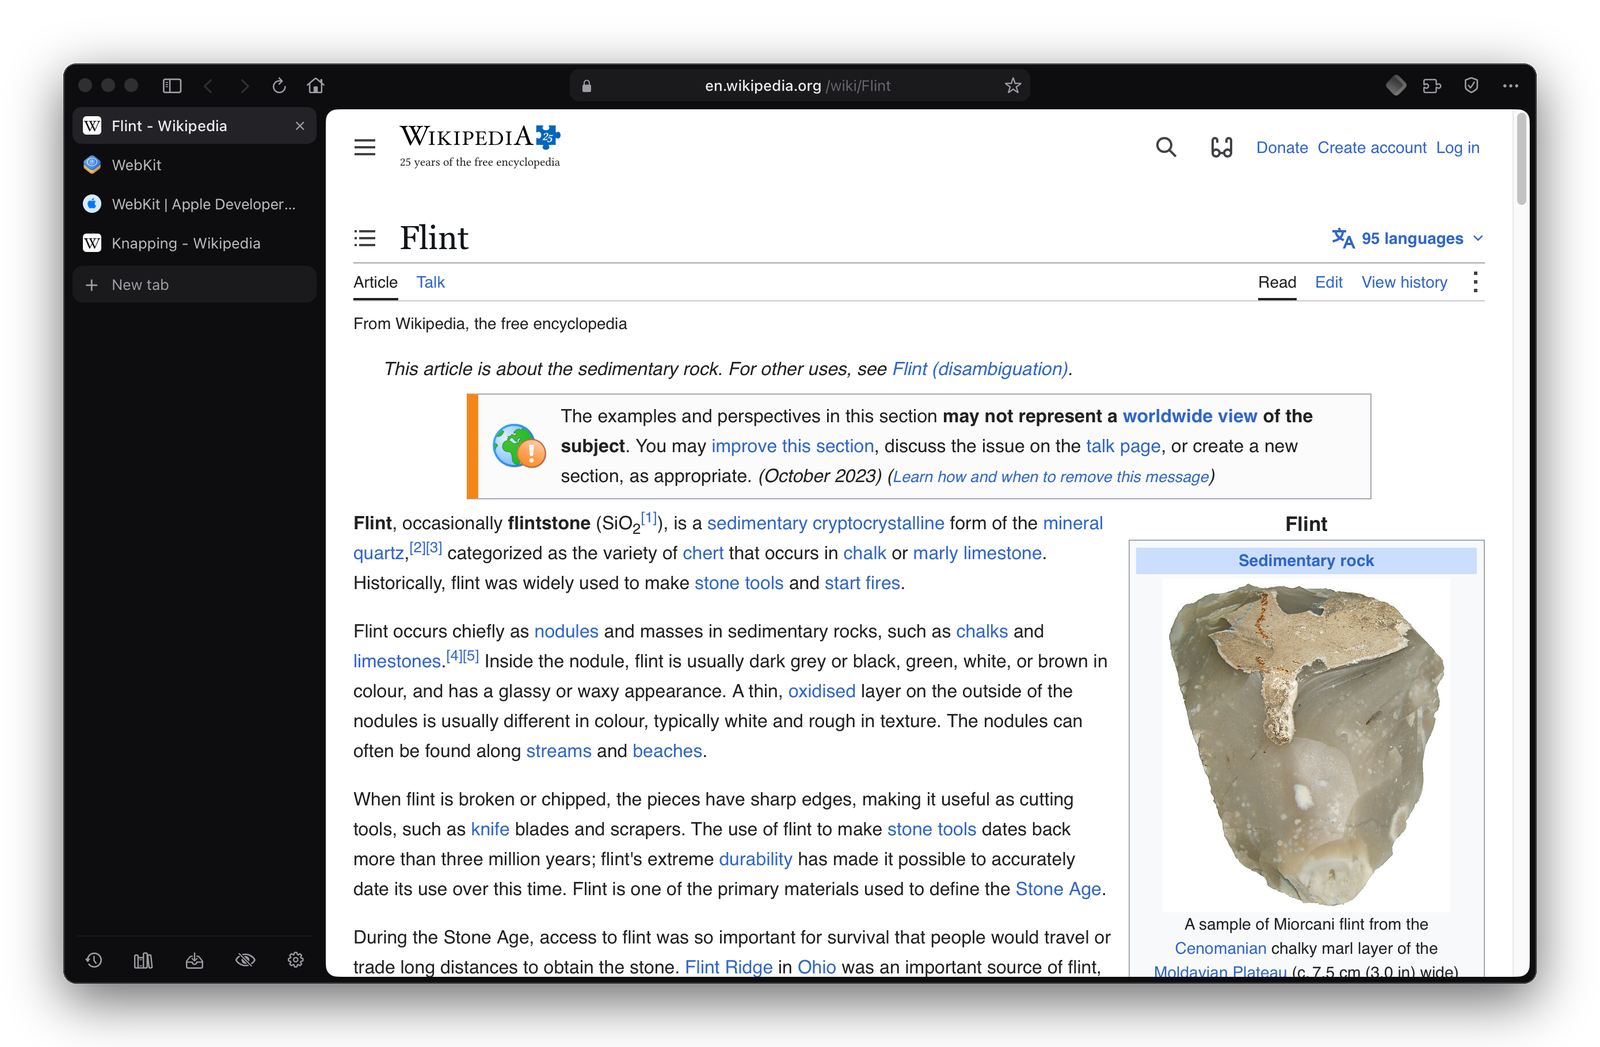
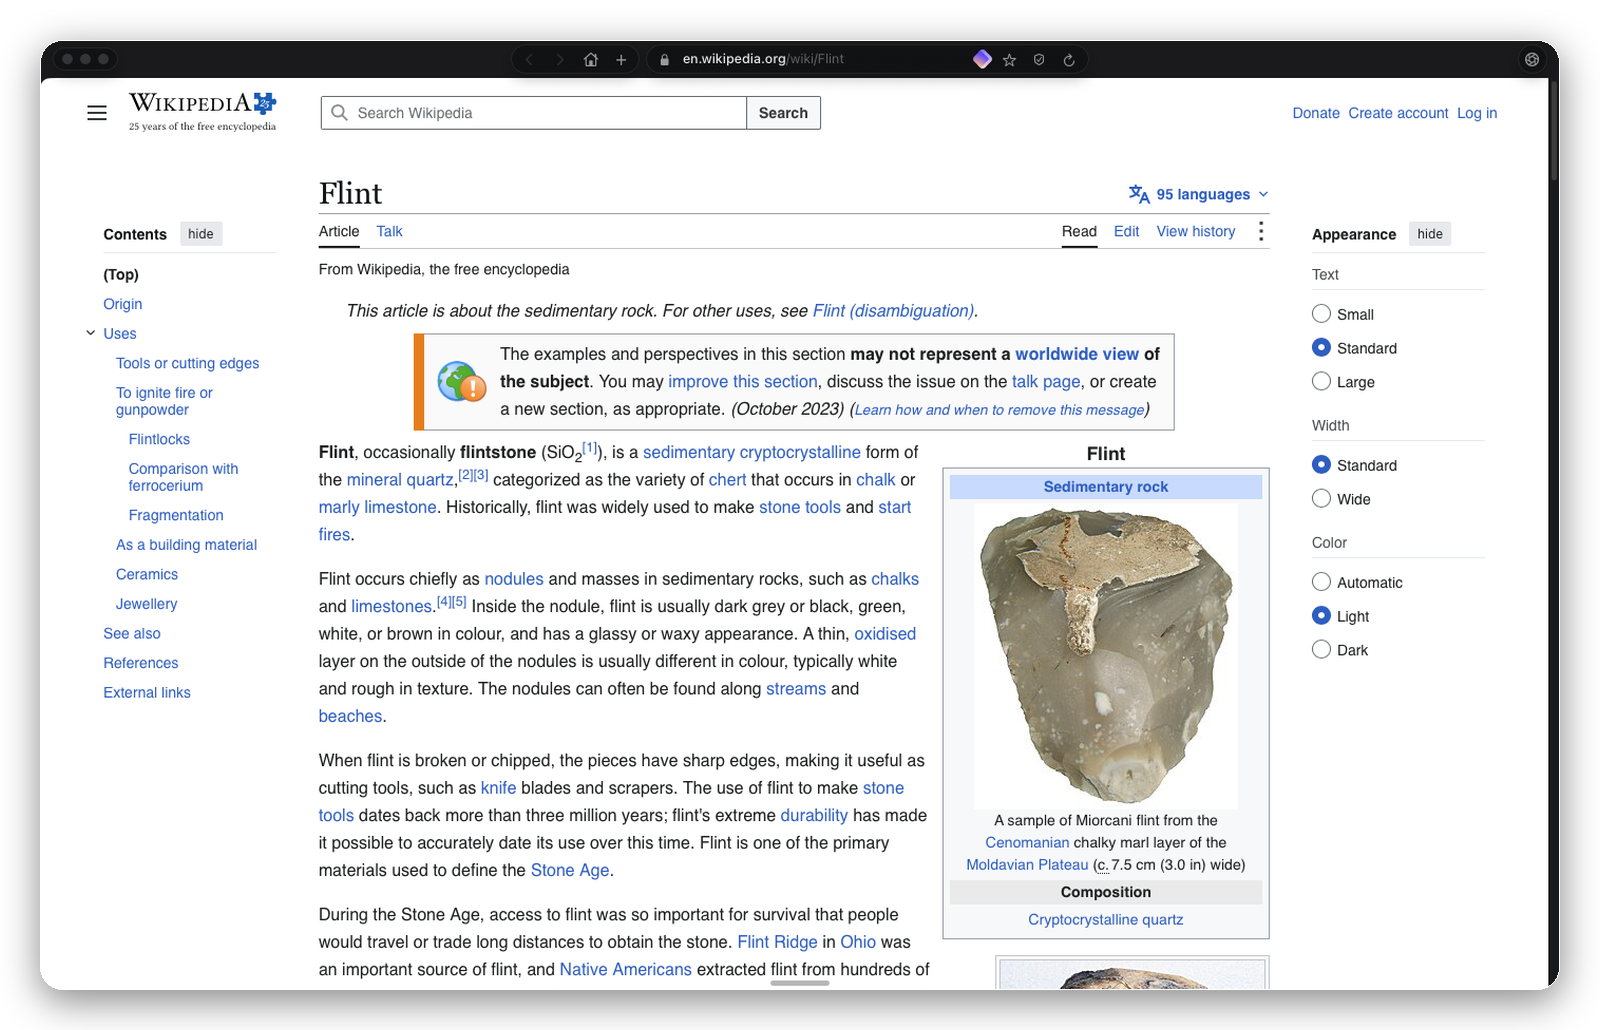
Monolith redesign: capsules, bottom tab strip, Lens; location support

diff --git a/Flint.m b/Flint.m
@@ -4863,6 +4863,35 @@ static NSString *MediaKey(NSURL *u) {
     }];
 }
 
+// Location: a site asks, you answer once for that site (change it later from the lock, or Settings ▸ Site Settings).
+// WebKit gets the position from macOS Location Services, which asks you the first time Flint uses it.
+- (void)askPermission:(NSString *)key host:(NSString *)host noun:(NSString *)noun done:(void (^)(BOOL))done {
+    host = host.lowercaseString ?: @"";
+    NSInteger v = [[Defaults() dictionaryForKey:kSitePerms][host][key] integerValue];
+    if (v == 1) { done(YES); return; }
+    if (v == 2 || !self.window) { done(NO); return; }
+    NSAlert *a = [NSAlert new];
+    a.messageText = [NSString stringWithFormat:@"%@ wants to use your %@", host, noun];
+    a.informativeText = @"You can change this later from the lock beside the address.";
+    [a addButtonWithTitle:@"Allow"]; [a addButtonWithTitle:@"Don't Allow"];
+    a.showsSuppressionButton = YES; a.suppressionButton.title = @"Remember for this site"; a.suppressionButton.state = NSControlStateValueOn;
+    [a beginSheetModalForWindow:self.window completionHandler:^(NSModalResponse r) {
+        BOOL allow = r == NSAlertFirstButtonReturn;
+        if (a.suppressionButton.state == NSControlStateValueOn) {
+            NSMutableDictionary *all = [[Defaults() dictionaryForKey:kSitePerms] ?: @{} mutableCopy];
+            NSMutableDictionary *mine = [all[host] ?: @{} mutableCopy];
+            mine[key] = @(allow ? 1 : 2); all[host] = mine; [Defaults() setObject:all forKey:kSitePerms];
+        }
+        done(allow);
+    }];
+}
+- (void)_webView:(WKWebView *)w requestGeolocationPermissionForOrigin:(WKSecurityOrigin *)o initiatedByFrame:(WKFrameInfo *)f decisionHandler:(void (^)(WKPermissionDecision))done API_AVAILABLE(macos(12.0)) {
+    [self askPermission:@"location" host:o.host noun:@"location" done:^(BOOL ok) { done(ok ? WKPermissionDecisionGrant : WKPermissionDecisionDeny); }];
+}
+- (void)_webView:(WKWebView *)w requestGeolocationPermissionForFrame:(WKFrameInfo *)f decisionHandler:(void (^)(BOOL))done {
+    [self askPermission:@"location" host:f.securityOrigin.host noun:@"location" done:done];
+}
+
 #pragma mark Downloads
 
 - (void)download:(WKDownload *)d decideDestinationUsingResponse:(NSURLResponse *)r suggestedFilename:(NSString *)name completionHandler:(void (^)(NSURL *))done {
@@ -7913,11 +7942,13 @@ static CGFloat ChipWidth(NSString *t, NSString *meta) {
             [self add:VPLabel rect:NSMakeRect(x, y, cw, 14) title:@"PERMISSIONS"]; y += 20;
             NSDictionary *perms = [Defaults() dictionaryForKey:kSitePerms][host];
             CGFloat cx = x;
-            for (NSString *k in @[@"camera", @"microphone"]) {
+            for (NSString *k in @[@"location", @"camera", @"microphone"]) {
                 NSInteger v = [perms[k] integerValue];
                 NSString *state = v == 1 ? @"Allow" : v == 2 ? @"Block" : @"Ask";
-                NSString *t1 = [k isEqualToString:@"camera"] ? @"Camera" : @"Microphone";
-                VPItem *c = [self add:VPChip rect:NSMakeRect(cx, y, ChipWidth(t1, state), 30) title:t1]; c.meta = state;
+                NSString *t1 = k.capitalizedString;
+                CGFloat chipW = ChipWidth(t1, state);
+                if (cx + chipW > x + cw) { cx = x; y += 36; }   // wrap onto a second row
+                VPItem *c = [self add:VPChip rect:NSMakeRect(cx, y, chipW, 30) title:t1]; c.meta = state;
                 c.act = ^(NSEvent *e, NSRect r) { [ww setSitePermission:Carry(@[host, k, @((v + 1) % 3)])]; [ws rebuild]; };
                 cx += NSWidth(c.r) + 6;
             }
@@ -9339,7 +9370,7 @@ static BOOL RemoveNode(NSMutableArray *list, id n) {
     NSMenuItem *js = [m addItemWithTitle:@"JavaScript on This Site" action:@selector(toggleSiteScripts:) keyEquivalent:@""]; js.target = self; js.representedObject = host;
     js.state = [Defaults() boolForKey:kScripts] && ![[Defaults() arrayForKey:kJSOff] containsObject:host] ? NSControlStateValueOn : NSControlStateValueOff;
     NSDictionary *perms = [Defaults() dictionaryForKey:kSitePerms][host];
-    for (NSString *k in @[@"camera", @"microphone"]) {
+    for (NSString *k in @[@"location", @"camera", @"microphone"]) {
         NSInteger v = [perms[k] integerValue];
         NSMenuItem *pi = [m addItemWithTitle:[NSString stringWithFormat:@"%@: %@", k.capitalizedString, v == 1 ? @"Allowed" : v == 2 ? @"Blocked" : @"Ask"] action:nil keyEquivalent:@""];
         NSMenu *sub = [[NSMenu alloc] initWithTitle:k];
@@ -11091,10 +11122,10 @@ static NSArray *SettingsSchema(VWindow *win) {
         NSMutableArray *l = [[Defaults() arrayForKey:kJSOff] ?: @[] mutableCopy]; [l removeObject:h]; [Defaults() setObject:l forKey:kJSOff]; done(nil); })];
     NSMutableArray *cam = [NSMutableArray array];
     NSDictionary *perms = [Defaults() dictionaryForKey:kSitePerms] ?: @{};
-    if (!perms.count) [cam addObject:SNote(@"No decisions yet", @"Sites ask the first time they want your camera or microphone.")];
+    if (!perms.count) [cam addObject:SNote(@"No decisions yet", @"Sites ask the first time they want your location, camera or microphone.")];
     for (NSString *h in [perms.allKeys sortedArrayUsingSelector:@selector(compare:)]) {
         NSMutableArray *bits = [NSMutableArray array];
-        for (NSString *k in @[@"camera", @"microphone"]) { NSInteger v = [perms[h][k] integerValue]; if (v) [bits addObject:[NSString stringWithFormat:@"%@ %@", k.capitalizedString, v == 1 ? @"allowed" : @"blocked"]]; }
+        for (NSString *k in @[@"location", @"camera", @"microphone"]) { NSInteger v = [perms[h][k] integerValue]; if (v) [bits addObject:[NSString stringWithFormat:@"%@ %@", k.capitalizedString, v == 1 ? @"allowed" : @"blocked"]]; }
         [cam addObject:SButton([@"perm." stringByAppendingString:h], h, [bits componentsJoinedByString:@" · "], @"Reset", ^(NSDictionary *a, void (^done)(NSString *)) {
             NSMutableDictionary *d = [[Defaults() dictionaryForKey:kSitePerms] ?: @{} mutableCopy]; [d removeObjectForKey:h]; [Defaults() setObject:d forKey:kSitePerms]; done(nil); })];
     }
@@ -11104,7 +11135,7 @@ static NSArray *SettingsSchema(VWindow *win) {
     for (NSString *h in allow) [allowRows addObject:SButton([@"allow." stringByAppendingString:h], h, @"Blocking turned off", @"Turn Back On", ^(NSDictionary *a, void (^done)(NSString *)) {
         NSMutableArray *l = [[Defaults() arrayForKey:kAllowlist] ?: @[] mutableCopy]; [l removeObject:h]; [Defaults() setObject:l forKey:kAllowlist]; FlintReloadBlocklists(); done(nil); })];
     [S addObject:SSection(@"sites", @"Site Settings", @"Choices you've made for individual sites. Change them from the lock icon in the address bar.", @"sliders", @[
-        SGroup(@"JavaScript", js), SGroup(@"Camera and microphone", cam), SGroup(@"Ad blocking", allowRows) ])];
+        SGroup(@"JavaScript", js), SGroup(@"Location, camera and microphone", cam), SGroup(@"Ad blocking", allowRows) ])];
 
     // ── Ad blocking
     NSMutableArray *lists = [NSMutableArray array]; NSSet *on = ListsOn();

diff --git a/README.md b/README.md
@@ -17,15 +17,24 @@
 </p>
 
 <p align="center">
-  <img src="assets/hero.png" alt="Flint with vertical tabs" width="900">
+  <img src="assets/hero.png" alt="Flint: the page fills the window, with the controls floating in a thin band above it" width="900">
 </p>
+
+## The design
+
+Flint gives the page the whole window. There is no tab bar and no sidebar: back, forward and the address float as small capsules in a thin band above the page, and everything else stays out of sight until you reach for it.
+
+- **Tabs come up from the bottom edge.** Move the pointer to the bottom of the window (or press ⌘S) and your tabs rise as a timeline of page previews, the one you're on at the right end. Pinned tabs sit first, the same size as the rest; a New tab card closes the row.
+- **Bookmarks live under the address.** Click the address and it's selected, ready to type over, with your bookmarks underneath: folders open in place, no dropdown menus, and your other open tabs below them.
+- **Each button does one job.** The lock is this site (connection, cookies, JavaScript, location, camera and microphone, clear data). The shield is blocking (what was blocked here, on or off for this site, block an element). **Lens** (⌘.) is the browser itself: profile, extensions, zoom, and the rest of the menu.
 
 ## Features
 
 **Browsing**
-- Vertical tabs in a resizable side panel, bookmarks bar, split view (two tabs side by side)
-- Private windows, reader mode, tab sleep after a set idle time
-- Address bar with suggestions from history and bookmarks; built-in pages at `flint://settings`, `flint://downloads`, `flint://history`, `flint://bookmarks`
+- Split view (two tabs side by side), private windows, reader mode, tab sleep after a set idle time
+- Location, camera and microphone for sites that ask, decided once per site
+- Profiles, each with its own sign-ins, cookies, history and tabs, marked by a colour (separate website data needs macOS 14)
+- Address suggestions from history, bookmarks and open tabs; built-in pages at `flint://settings`, `flint://downloads`, `flint://history`, `flint://bookmarks`
 - Bookmark import from Helium
 
 **Privacy**
@@ -44,7 +53,7 @@
 - Pause, resume, retry, queue limit and speed limit; finished files are quarantined like Safari's
 
 **Extensions**
-- Installs Chrome Web Store extensions through its own extension layer (a subset of the Chrome extension APIs). SponsorBlock, Enhancer for YouTube and Proton Pass run on it.
+- Installs Chrome Web Store extensions through its own extension layer, built against the Chrome APIs rather than any one extension: runtime messaging, storage, tabs, scripting (with frame targeting and registered content scripts), context menus, user scripts and declarativeNetRequest (translated to WebKit content rules). Proton Pass, SponsorBlock and Enhancer for YouTube run on it.
 
 **Performance**
 - One rule: Flint and every process it starts average at most one CPU core over any 10 seconds. Short bursts run at full speed; audio, video and the tab you're using are never slowed.
@@ -54,18 +63,22 @@
 
 <table>
   <tr>
-    <td width="50%"><img src="assets/split.png" alt="Split view"><p align="center"><sub>Split view</sub></p></td>
-    <td width="50%"><img src="assets/reader.png" alt="Reader mode"><p align="center"><sub>Reader mode</sub></p></td>
+    <td width="50%"><img src="assets/tabs.png" alt="Tabs rising from the bottom edge"><p align="center"><sub>Tabs, from the bottom edge</sub></p></td>
+    <td width="50%"><img src="assets/lens.png" alt="Lens"><p align="center"><sub>Lens: the browser in one panel</sub></p></td>
   </tr>
   <tr>
-    <td width="50%"><img src="assets/settings.png" alt="Performance settings"><p align="center"><sub>Engine-level performance settings</sub></p></td>
-    <td width="50%"><img src="assets/extensions.png" alt="Extensions"><p align="center"><sub>Chrome extensions</sub></p></td>
+    <td width="50%"><img src="assets/shield.png" alt="Blocking panel"><p align="center"><sub>The shield: blocking, for this site or everywhere</sub></p></td>
+    <td width="50%"><img src="assets/split.png" alt="Split view"><p align="center"><sub>Split view</sub></p></td>
+  </tr>
+  <tr>
+    <td width="50%"><img src="assets/reader.png" alt="Reader mode"><p align="center"><sub>Reader mode</sub></p></td>
+    <td width="50%"><img src="assets/settings.png" alt="Settings"><p align="center"><sub>Settings</sub></p></td>
   </tr>
 </table>
 
 ## Requirements
 
-- macOS 12.3 or later (Intel or Apple silicon)
+- macOS 12.3 or later (Intel or Apple silicon); separate profile data needs macOS 14
 - Xcode Command Line Tools (`xcode-select --install`)
 
 ## Build
@@ -80,13 +93,13 @@ The script compiles `Flint.m` with clang and bundles `ext-shim.js`, `pages/` and
 
 ## Development
 
-While Flint is open it watches its own source. A change is built in the background into `.staged/`, and an **Update** pill appears at the right of the toolbar; click it when you're ready and Flint restarts into the new build with your tabs restored. Nothing restarts on its own.
+While Flint is open it watches its own source. A change is built in the background into `.staged/`, and an **Update** pill appears beside the address; click it when you're ready and Flint restarts into the new build with your tabs restored. Nothing restarts on its own.
 
 ## Layout
 
 | Path | What it is |
 |---|---|
-| `Flint.m` | The whole app: window, tabs, sidebar, blocker, downloads, extensions, settings |
+| `Flint.m` | The whole app: window, capsules, tab strip, panels, blocker, downloads, extensions, settings |
 | `ext-shim.js` | The Chrome extension API layer, injected into extension pages |
 | `pages/` | Built-in pages served at `flint://` |
 | `flint` | Build, sign and update script |
